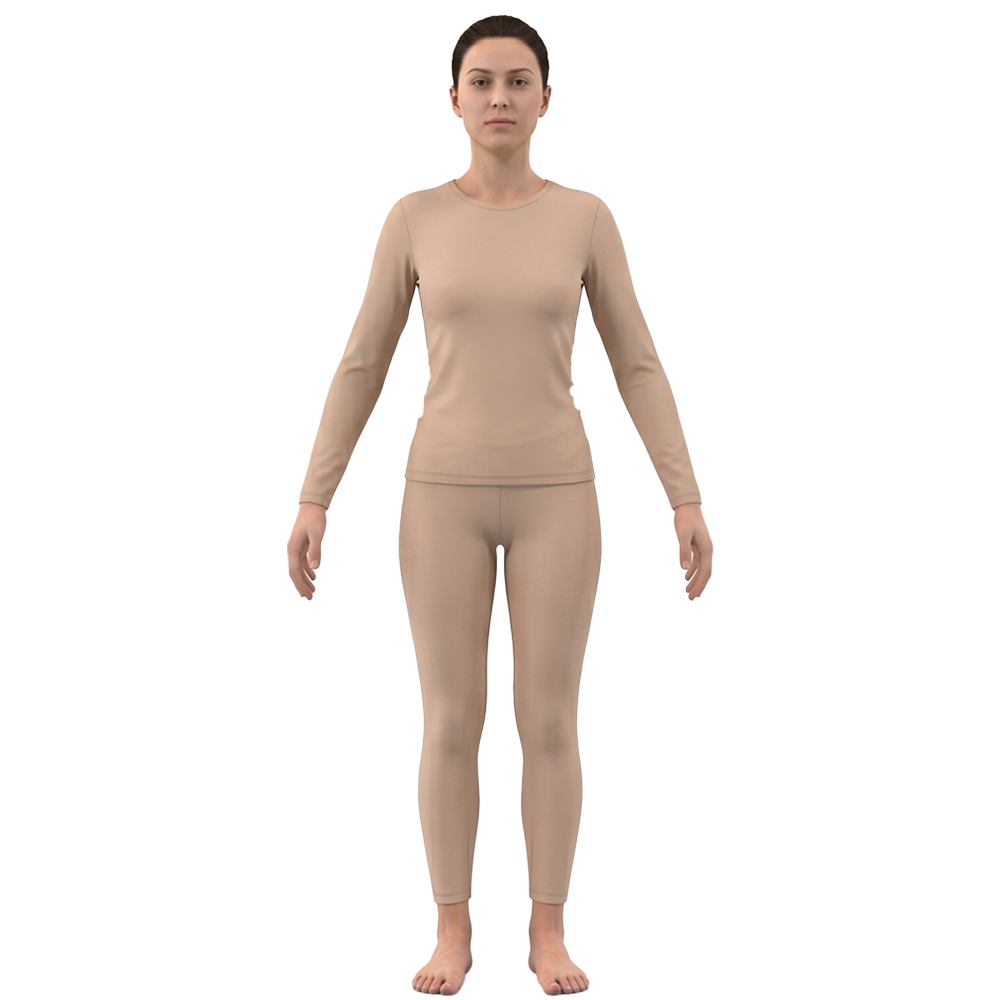
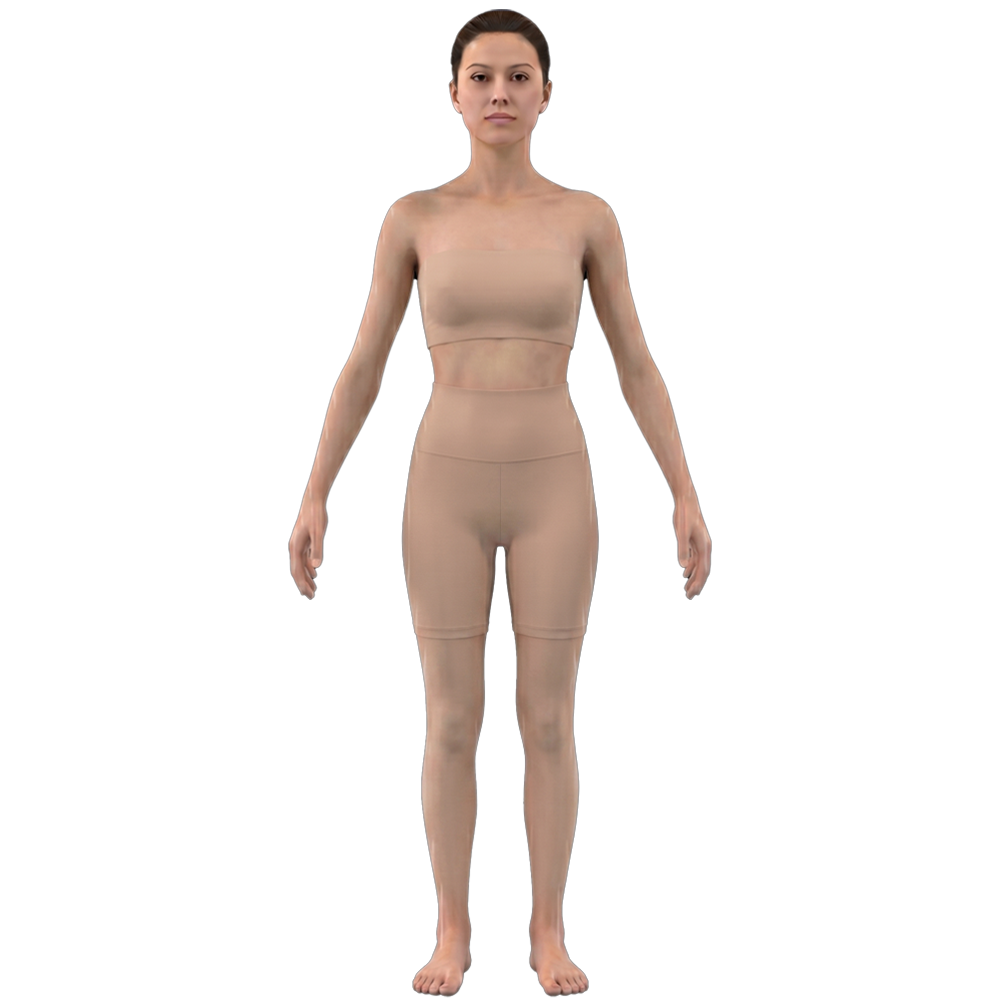
feat(mannequins): v1 bundled catalog with four PNG mannequins
Replace legacy mannequin assets with petite/standard/slim variants and
wire the selector to show PNGs at native aspect ratio.

diff --git a/lib/features/browse/screens/mannequin_selector_screen.dart b/lib/features/browse/screens/mannequin_selector_screen.dart
@@ -8,13 +8,15 @@ import 'package:lolipants/core/constants/app_colors.dart';
 import 'package:lolipants/core/constants/app_spacing.dart';
 import 'package:lolipants/core/constants/app_strings.dart';
 import 'package:lolipants/core/constants/app_text_styles.dart';
+import 'package:lolipants/core/preferences/design_gender_defaults.dart';
+import 'package:lolipants/core/preferences/user_gender_provider.dart';
 import 'package:lolipants/features/browse/models/mannequin_option.dart';
 import 'package:lolipants/features/editor/data/built_in_mannequin_assets.dart';
 import 'package:lolipants/features/editor/models/editor_preset_args.dart';
 import 'package:lolipants/features/editor/providers/editor_provider.dart';
+import 'package:lolipants/features/editor/widgets/bundled_mannequin_image.dart';
 import 'package:lolipants/features/editor/widgets/mannequin_viewer.dart';
 import 'package:lolipants/shared/widgets/arabesque_background.dart';
-import 'package:lolipants/shared/widgets/catalog_image.dart';
 import 'package:lolipants/shared/widgets/lolipants_button.dart';
 
 /// Selects mannequin shape before opening the editor.
@@ -29,39 +31,15 @@ class MannequinSelectorScreen extends ConsumerStatefulWidget {
 
 class _MannequinSelectorScreenState
     extends ConsumerState<MannequinSelectorScreen> {
-  /// One tile per bundled mannequin PNG; ids match [kBuiltInMannequinAssets].
-  static const _bundledMannequins = <MannequinOption>[
-    MannequinOption(
-      id: 'petite_female',
-      labelEn: 'Petite (Female)',
-      labelAr: 'نسائي قصير',
-    ),
-    MannequinOption(
-      id: 'standard_female',
-      labelEn: 'Standard (Female)',
-      labelAr: 'نسائي قياسي',
-    ),
-    MannequinOption(
-      id: 'athletic_female',
-      labelEn: 'Athletic (Female)',
-      labelAr: 'نسائي رياضي',
-    ),
-    MannequinOption(
-      id: 'curvy_female',
-      labelEn: 'Curvy (Female)',
-      labelAr: 'نسائي ممتلئ',
-    ),
-    MannequinOption(
-      id: 'plus_female',
-      labelEn: 'Plus (Female)',
-      labelAr: 'نسائي بلس',
-    ),
-    MannequinOption(
-      id: 'standard_male',
-      labelEn: 'Standard (Male)',
-      labelAr: 'رجالي قياسي',
-    ),
-  ];
+  static final _bundledMannequins = kVersionMannequinCatalog
+      .map(
+        (m) => MannequinOption(
+          id: m.id,
+          labelEn: m.labelEn,
+          labelAr: m.labelAr,
+        ),
+      )
+      .toList(growable: false);
 
   late String _selectedId;
   String? _customPhotoPath;
@@ -106,13 +84,30 @@ class _MannequinSelectorScreenState
   @override
   void initState() {
     super.initState();
-    _selectedId = kFeatureMens ? 'standard_male' : kPresetCatalogMannequinId;
+    _selectedId = kPresetCatalogMannequinId;
+    WidgetsBinding.instance.addPostFrameCallback((_) => _applyGenderDefaults());
+  }
+
+  void _applyGenderDefaults() {
+    if (!mounted) return;
+    final gender = ref.read(userGenderProvider);
+    final ordered = sortMannequinsForGender(_bundledMannequins, gender);
+    final preferred = gender != null
+        ? mannequinIdForGender(gender)
+        : (kFeatureMens ? 'standard_male' : kPresetCatalogMannequinId);
+    final id = ordered.any((m) => m.id == preferred)
+        ? preferred
+        : ordered.first.id;
+    if (_selectedId != id) {
+      setState(() => _selectedId = id);
+    }
   }
 
   @override
   Widget build(BuildContext context) {
     final editor = ref.watch(editorProvider);
-    const mannequins = _bundledMannequins;
+    final gender = ref.watch(userGenderProvider);
+    final mannequins = sortMannequinsForGender(_bundledMannequins, gender);
     if (!mannequins.any((m) => m.id == _selectedId)) {
       WidgetsBinding.instance.addPostFrameCallback((_) {
         if (mounted) {
@@ -163,18 +158,9 @@ class _MannequinSelectorScreenState
                                       borderRadius: BorderRadius.circular(
                                         AppRadius.sm,
                                       ),
-                                      child: ColoredBox(
-                                        color: const Color(0xFFE8E4EA),
-                                        child: CatalogImage(
-                                          path: builtIn,
-                                          width: 88,
-                                          height: 110,
-                                          fit: BoxFit.contain,
-                                          errorWidget: MiniMannequin(
-                                            primaryColour:
-                                                editor.primaryColour,
-                                            accentColour: editor.accentColour,
-                                          ),
+                                      child: SizedBox.expand(
+                                        child: BundledMannequinImage(
+                                          assetPath: builtIn,
                                         ),
                                       ),
                                     );
@@ -268,7 +254,12 @@ class _MannequinCard extends StatelessWidget {
         ),
         child: Column(
           children: [
-            Expanded(child: Center(child: child)),
+            Expanded(
+              child: Padding(
+                padding: const EdgeInsets.only(bottom: AppSpacing.xs),
+                child: child,
+              ),
+            ),
             const SizedBox(height: AppSpacing.sm),
             Text(
               english,

diff --git a/lib/features/editor/data/built_in_mannequin_assets.dart b/lib/features/editor/data/built_in_mannequin_assets.dart
@@ -1,28 +1,90 @@
-/// Bundled semi-realistic mannequin bodies under `assets/images/mannequins`.
+/// Semi-realistic mannequin bodies under `assets/images/mannequins`.
 ///
-/// Maps stable mannequin **ids** (picker, editor, API fallbacks) to named PNGs:
-/// `petite_female.png`, `standard_femal.png`, `athletic_femal.png`,
-/// `curvey_femal.png`, `plus_female.png`, `standard_male.png`.
-///
-/// Legacy ids `tall_male` and `child` remain for older saves. Filenames use
-/// `femal` / `curvey` as on disk.
-const Map<String, String> kBuiltInMannequinAssets = {
-  'petite_female': 'assets/images/mannequins/petite_female.png',
-  'standard_female': 'assets/images/mannequins/standard_femal.png',
-  'athletic_female': 'assets/images/mannequins/athletic_femal.png',
-  'curvy_female': 'assets/images/mannequins/curvey_femal.png',
-  'plus_female': 'assets/images/mannequins/plus_female.png',
-  'standard_male': 'assets/images/mannequins/standard_male.png',
-  'tall_male': 'assets/images/mannequins/standard_male.png',
-  'child': 'assets/images/mannequins/petite_female.png',
-  // Filename-shaped id aliases (e.g. CMS or hand-edited JSON).
-  'standard_femal': 'assets/images/mannequins/standard_femal.png',
-  'athletic_femal': 'assets/images/mannequins/athletic_femal.png',
-  'curvey_femal': 'assets/images/mannequins/curvey_femal.png',
+/// v1 catalogue: four shapes only (2 female, 2 male). Legacy ids from older
+/// saves map to the nearest v1 asset.
+class BundledMannequinDef {
+  const BundledMannequinDef({
+    required this.id,
+    required this.labelEn,
+    required this.labelAr,
+    required this.fileName,
+    required this.sortOrder,
+  });
+
+  final String id;
+  final String labelEn;
+  final String labelAr;
+  final String fileName;
+  final int sortOrder;
+
+  String get assetPath => 'assets/images/mannequins/$fileName';
+}
+
+/// Active mannequins shown in the picker for this app version.
+const List<BundledMannequinDef> kVersionMannequinCatalog = [
+  BundledMannequinDef(
+    id: 'petite_female',
+    labelEn: 'Petite (Female)',
+    labelAr: 'نسائي قصير',
+    fileName: 'petite_female.png',
+    sortOrder: 0,
+  ),
+  BundledMannequinDef(
+    id: 'standard_female',
+    labelEn: 'Standard (Female)',
+    labelAr: 'نسائي قياسي',
+    fileName: 'standard_female.png',
+    sortOrder: 1,
+  ),
+  BundledMannequinDef(
+    id: 'standard_male',
+    labelEn: 'Standard (Male)',
+    labelAr: 'رجالي قياسي',
+    fileName: 'standard_male.png',
+    sortOrder: 2,
+  ),
+  BundledMannequinDef(
+    id: 'slim_male',
+    labelEn: 'Slim (Male)',
+    labelAr: 'رجالي نحيف',
+    fileName: 'slim_male.png',
+    sortOrder: 3,
+  ),
+];
+
+/// Stable mannequin id → bundled asset path (includes legacy save aliases).
+final Map<String, String> kBuiltInMannequinAssets = {
+  for (final m in kVersionMannequinCatalog) m.id: m.assetPath,
+  // Older saves / CMS ids → nearest v1 body.
+  'standard_femal': kVersionMannequinCatalog[1].assetPath,
+  'athletic_female': kVersionMannequinCatalog[1].assetPath,
+  'athletic_femal': kVersionMannequinCatalog[1].assetPath,
+  'curvy_female': kVersionMannequinCatalog[1].assetPath,
+  'curvey_femal': kVersionMannequinCatalog[1].assetPath,
+  'plus_female': kVersionMannequinCatalog[1].assetPath,
+  'tall_male': kVersionMannequinCatalog[2].assetPath,
+  'child': kVersionMannequinCatalog[0].assetPath,
 };
 
 /// Mannequin used when opening the editor from home/browse preset tiles.
 const String kPresetCatalogMannequinId = 'petite_female';
+
+/// All ids treated as local bundled mannequins (no DB row required on save).
+const Set<String> kLocalBundledMannequinIds = {
+  'petite_female',
+  'standard_female',
+  'standard_male',
+  'slim_male',
+  'standard_femal',
+  'athletic_female',
+  'athletic_femal',
+  'curvy_female',
+  'curvey_femal',
+  'plus_female',
+  'tall_male',
+  'child',
+  'custom_photo',
+};
 
 /// Asset path for [mannequinId], or null if none (vector-only silhouette).
 String? builtInMannequinAssetPath(String mannequinId) {

diff --git a/lib/features/browse/models/mannequin_option.dart b/lib/features/browse/models/mannequin_option.dart
@@ -1,3 +1,5 @@
+import 'package:lolipants/core/preferences/user_gender_provider.dart';
+
 /// Mannequin option from admin-managed backend data.
 class MannequinOption {
   const MannequinOption({
@@ -31,4 +33,33 @@ bool isMaleMannequinOption(MannequinOption o) {
   if (id.endsWith('_male')) return true;
   if (o.labelEn.toLowerCase().contains('(male)')) return true;
   return false;
+}
+
+/// Orders [options] so the shopper's gender lane appears first.
+List<MannequinOption> sortMannequinsForGender(
+  List<MannequinOption> options,
+  String? gender,
+) {
+  if (gender == null || gender.isEmpty) return options;
+  final copy = List<MannequinOption>.from(options);
+  copy.sort((a, b) {
+    final aMale = isMaleMannequinOption(a);
+    final bMale = isMaleMannequinOption(b);
+    if (gender == UserGenderPreference.men) {
+      if (aMale != bMale) return aMale ? -1 : 1;
+    } else if (gender == UserGenderPreference.women) {
+      if (aMale != bMale) return aMale ? 1 : -1;
+    } else if (gender == UserGenderPreference.kids) {
+      final aKid = _isKidsMannequinOption(a);
+      final bKid = _isKidsMannequinOption(b);
+      if (aKid != bKid) return aKid ? -1 : 1;
+    }
+    return a.labelEn.compareTo(b.labelEn);
+  });
+  return copy;
+}
+
+bool _isKidsMannequinOption(MannequinOption o) {
+  final id = o.id.toLowerCase();
+  return id == 'child' || id.contains('petite');
 }

diff --git a/test/features/editor/built_in_mannequin_assets_test.dart b/test/features/editor/built_in_mannequin_assets_test.dart
@@ -1,0 +1,25 @@
+import 'package:flutter_test/flutter_test.dart';
+import 'package:lolipants/features/editor/data/built_in_mannequin_assets.dart';
+
+void main() {
+  test('v1 catalogue exposes four mannequins only', () {
+    expect(kVersionMannequinCatalog.length, 4);
+    expect(
+      kVersionMannequinCatalog.map((m) => m.id).toList(),
+      ['petite_female', 'standard_female', 'standard_male', 'slim_male'],
+    );
+  });
+
+  test('each v1 mannequin resolves to a bundled asset path', () {
+    for (final m in kVersionMannequinCatalog) {
+      expect(builtInMannequinAssetPath(m.id), m.assetPath);
+    }
+  });
+
+  test('legacy female ids map to standard female asset', () {
+    expect(
+      builtInMannequinAssetPath('athletic_female'),
+      kVersionMannequinCatalog[1].assetPath,
+    );
+  });
+}

diff --git a/lib/features/editor/widgets/bundled_mannequin_image.dart b/lib/features/editor/widgets/bundled_mannequin_image.dart
@@ -1,0 +1,26 @@
+import 'package:flutter/material.dart';
+import 'package:lolipants/shared/widgets/catalog_image.dart';
+
+/// Renders a bundled mannequin PNG.
+///
+/// Use [BoxFit.contain] in picker thumbnails; [BoxFit.fitHeight] in the editor
+/// hero so garment layers (also fitHeight) stay aligned on the body.
+class BundledMannequinImage extends StatelessWidget {
+  const BundledMannequinImage({
+    required this.assetPath,
+    this.fit = BoxFit.contain,
+    super.key,
+  });
+
+  final String assetPath;
+  final BoxFit fit;
+
+  @override
+  Widget build(BuildContext context) {
+    return CatalogImage(
+      path: assetPath,
+      fit: fit,
+      alignment: Alignment.bottomCenter,
+    );
+  }
+}
